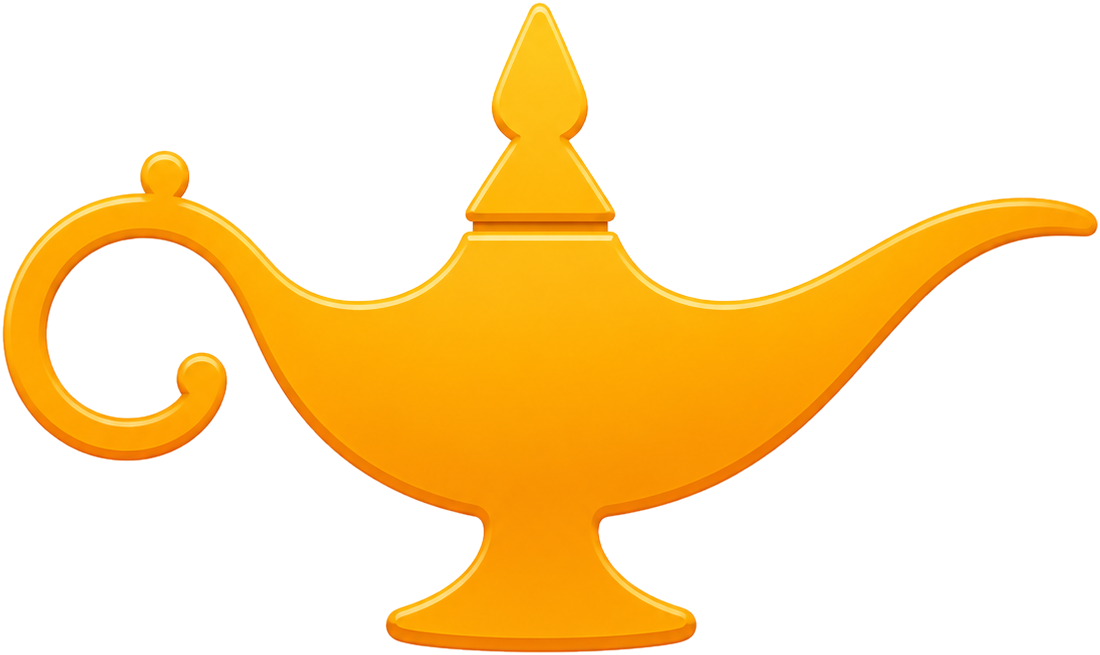
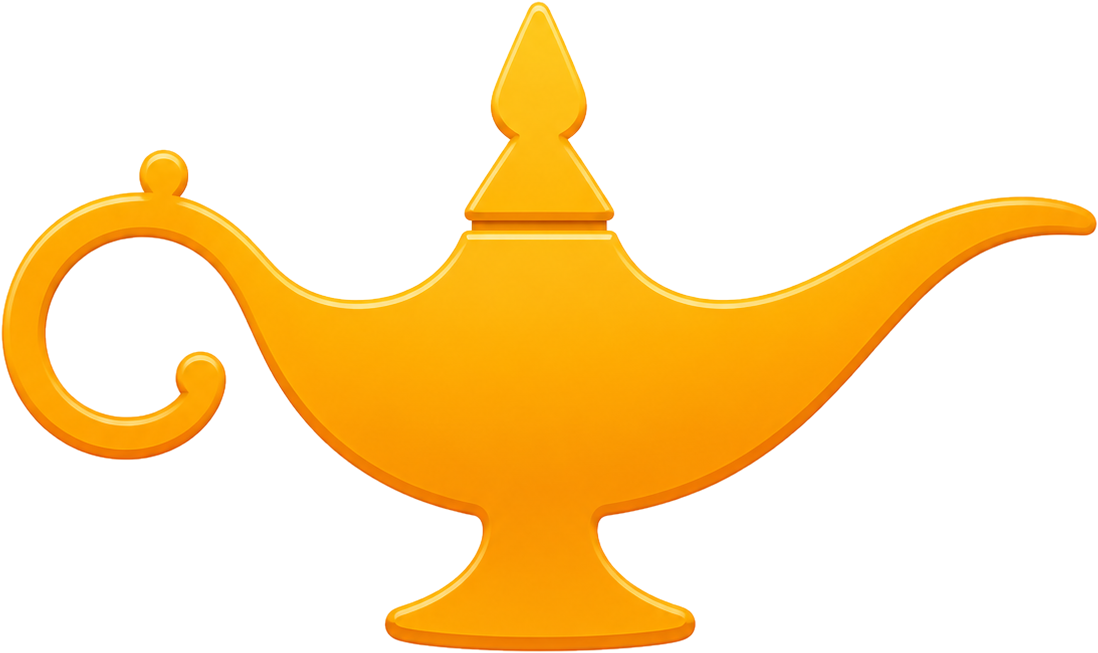
Greeting lamp: alpha floor kills the shadow-lit block (night desktop)
The trimmed asset carried faint residual alpha across its canvas; the
night drop-shadow lit it into a visible rectangle. Pixels below alpha 32
are now fully transparent, so the glow follows only the lamp silhouette.
Cache-busted to ?v=2.

Claude-Session: https://claude.ai/code/session_01CWgWJ3NhJ4e66tMjBTuxn9

diff --git a/src/views/JinniChat.vue b/src/views/JinniChat.vue
@@ -778,7 +778,7 @@
       <div class="fixed-input-container" :class="{ 'empty-chat': messages.length === 0 }">
         <div class="centered-content">
           <div class="ai-greeting" v-if="messages.length === 0">
-            <img src="/images/bottle-greeting.png?v=1" class="greeting-icon" alt="Jinni">
+            <img src="/images/bottle-greeting.png?v=2" class="greeting-icon" alt="Jinni">
             <div class="greeting">{{ greetingLine() }}</div>
           </div>
           <div class="chat-input-container">
